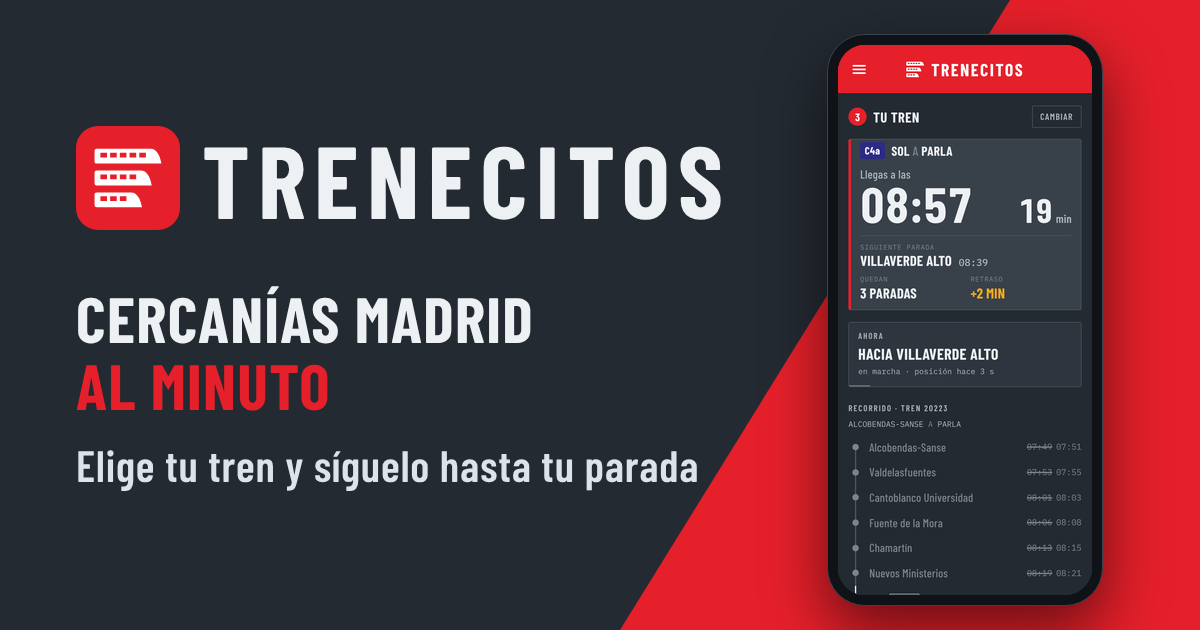
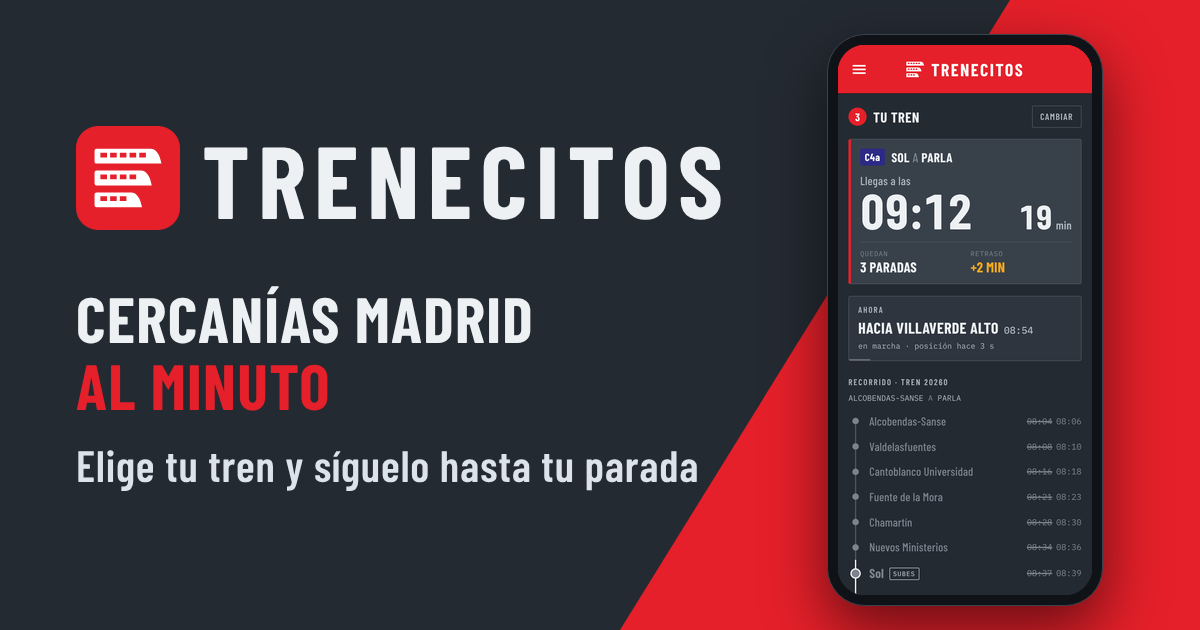
Paso 3: sin «Siguiente parada» repetida y más aire arriba en la tarjeta
- La tarjeta en marcha deja solo «Quedan» y «Retraso»; fuera también «Parado en X» (lo dice «Ahora»)
- «Ahora» lleva la hora estimada de la estación a la que va («Hacia Villaverde Alto 08:39»)
- Margen superior de la tarjeta igual que los laterales (14 px)
- Capturas rehechas (og:image ?v=9). Versión 122

Claude-Session: https://claude.ai/code/session_01XLSZwhcpX4cWhsFef5cfD3

diff --git a/styles.css b/styles.css
@@ -234,6 +234,7 @@ svg { display: block; }
 .now h3 { margin-bottom: 8px; }
 .now__text { font: 700 24px/1.1 var(--cond); letter-spacing: .02em; text-transform: uppercase; }
 .now__text--bad { color: var(--red); }
+.now__text small { margin-left: 8px; font: 500 15px/1 var(--mono); color: var(--dim); letter-spacing: 0; }
 .now__meta { margin-top: 6px; font: 400 12px/1.4 var(--mono); color: var(--dim); }
 
 .kv { display: grid; grid-template-columns: 1fr 1fr; gap: 14px; }
@@ -297,7 +298,7 @@ svg { display: block; }
 .ride__bar .icon-btn { margin-top: 0; }
 .ride__tag { display: inline-flex; align-items: center; gap: 8px; font: 600 13px/1 var(--cond); letter-spacing: .16em; text-transform: uppercase; color: var(--accent-hi); }
 .ride__tag i { width: 8px; height: 8px; border-radius: 50%; background: var(--accent); box-shadow: 0 0 0 3px rgba(229, 32, 42, .3); }
-.ride__body { display: block; width: 100%; padding: 4px 14px 14px; }
+.ride__body { display: block; width: 100%; padding: 14px; }
 .ride__body:active { background: rgba(255, 255, 255, .02); }
 @media (hover: hover) { .ride__body:hover { background: rgba(255, 255, 255, .02); } }
 .ride__who { display: flex; align-items: center; gap: 10px; }

diff --git a/index.html b/index.html
@@ -12,7 +12,7 @@
 <meta property="og:title" content="Trenecitos · ¿Llegas al tren?">
 <meta property="og:description" content="Cercanías Madrid en tiempo real: elige tu tren para saber cuándo llega">
 <meta property="og:url" content="https://trenecitos.pages.dev/">
-<meta property="og:image" content="https://trenecitos.pages.dev/img/og.png?v=8">
+<meta property="og:image" content="https://trenecitos.pages.dev/img/og.png?v=9">
 <meta property="og:image:type" content="image/png">
 <meta property="og:image:width" content="1200">
 <meta property="og:image:height" content="630">
@@ -20,7 +20,7 @@
 <meta name="twitter:card" content="summary_large_image">
 <meta name="twitter:title" content="Trenecitos · ¿Llegas al tren?">
 <meta name="twitter:description" content="Cercanías Madrid en tiempo real: elige tu tren para saber cuándo llega">
-<meta name="twitter:image" content="https://trenecitos.pages.dev/img/og.png?v=8">
+<meta name="twitter:image" content="https://trenecitos.pages.dev/img/og.png?v=9">
 <link rel="manifest" href="manifest.webmanifest">
 <link rel="canonical" href="https://trenecitos.pages.dev/">
 <link rel="icon" href="favicon.ico" sizes="any">

diff --git a/src/ride.js b/src/ride.js
@@ -55,10 +55,9 @@ export function rideHTML(ride, d, now) {
       waiting3 = true;
       cells = cell('Vía', t.platform ? esc(t.platform) : d.here.platform ? esc(d.here.platform) : '—') + cell('Retraso', t.delay == null ? '—' : esc(dl.short), `kv--${dl.cls}`) + cell('Paradas', String(t.hops));
     } else {
-      const next = info.next, last = info.left === 1;
-      sub = info.stoppedAt ? `<p class="ride__sub">Parado en ${esc(info.stoppedAt.name)}</p>` : '';
-      cells = cell('Siguiente parada', `${esc(next.name)} <small>${hhmm(next.est)}</small>`, '', true)
-            + cell('Quedan', last ? 'Bajas aquí' : `${info.left} paradas`, last ? 'warnc' : '')
+      // Dónde va y a qué hora llega a la siguiente parada lo dice "Ahora", justo debajo.
+      const last = info.left === 1;
+      cells = cell('Quedan', last ? 'Bajas aquí' : `${info.left} paradas`, last ? 'warnc' : '')
             + cell('Retraso', t.delay == null ? '—' : esc(dl.short), `kv--${dl.cls}`);
     }
   }

diff --git a/src/ui.js b/src/ui.js
@@ -138,7 +138,7 @@ export function detailBodyHTML(d, now, bar = '') {
 
   const nowLine = d.here.kind === 'cancelled' ? '' : `<section class="now">
       <h3>Ahora</h3>
-      <p class="now__text">${esc(d.here.text)}</p>
+      <p class="now__text">${esc(d.here.text)}${(d.here.kind === 'moving' || d.here.kind === 'incoming') && d.stops[d.vi] ? `<small>${hhmm(d.stops[d.vi].est)}</small>` : ''}</p>
       <p class="now__meta">${[
         d.here.platform ? `vía ${d.here.platform}` : '',
         d.here.state || '',

diff --git a/src/version.js b/src/version.js
@@ -1,3 +1,3 @@
 // Versión de la app, la numeramos nosotros a mano (no tiene que ver con el build ni con la caché):
 // la primera con este sistema fue la 100 (24-nov-2026); +10 en cambios gordos, +1 en los de impacto medio y sin cambio en tonterías.
-export const VERSION = 121;
+export const VERSION = 122;
